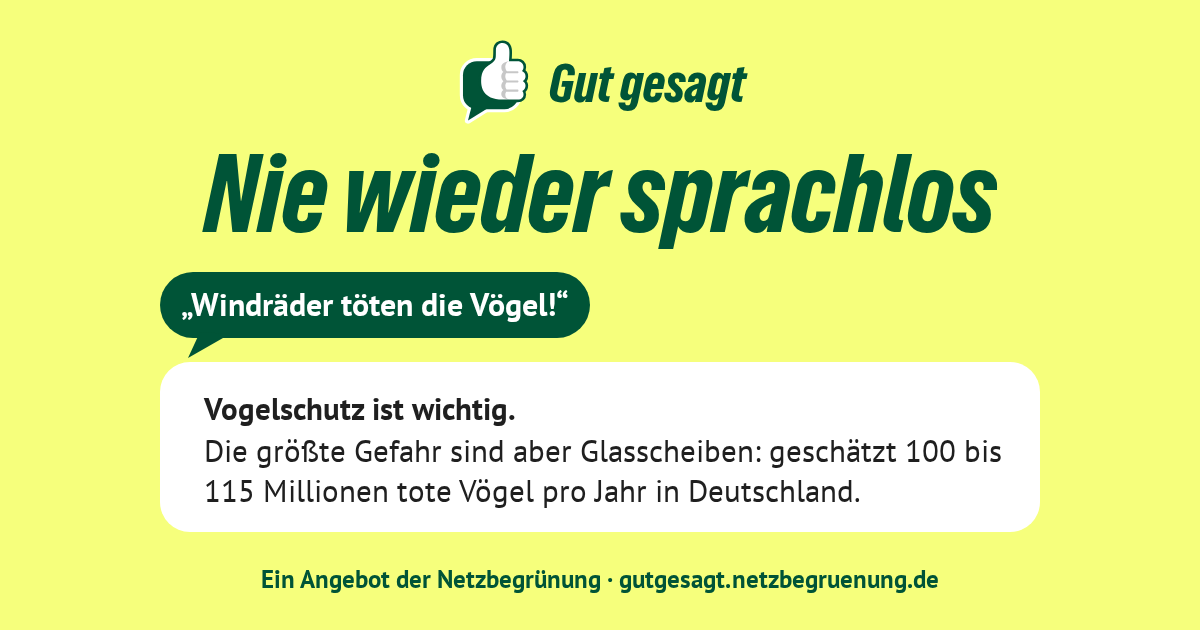
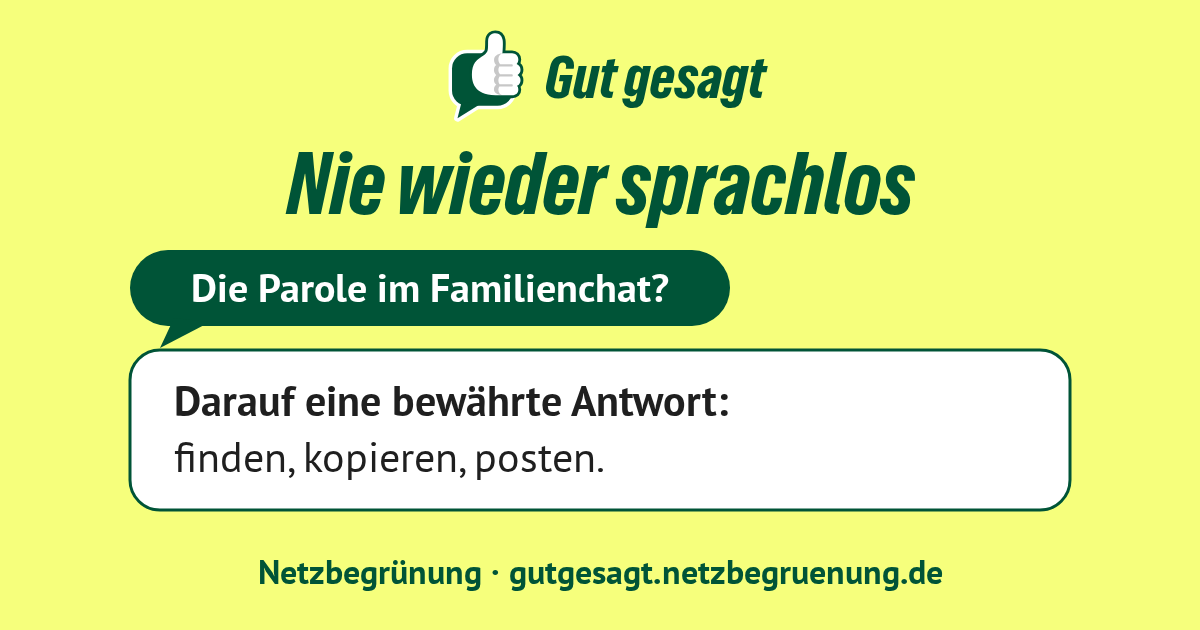
fix(frontend): neutral link preview that fits every shared page
The preview image also applies to /beitrag/<id> and /result, where nginx
only replaces title and description. Show the flow (slogan, then a proven
answer) instead of one specific statement so image and title never
contradict. Larger type for small previews, claim within the centre
square, alt text matches the image, test reuses the production prefix.

Changed region(s): [[0.0925, 0.2413, 0.8942, 0.8444], [0.2158, 0.8746, 0.8017, 0.9349], [0.37, 0.0302, 0.6475, 0.2111]]

diff --git a/mvp/frontend/gutgesagt-frontend/src/index.html b/mvp/frontend/gutgesagt-frontend/src/index.html
@@ -25,12 +25,13 @@
   <!--# endblock -->
   <!--# include virtual="$linkvorschau" stub="linkvorschau_allgemein" -->
   <!-- Vorschaubild 1200 x 630 (26.11.2026): Messenger zeigen es gross statt des kleinen Symbols;
-       Quelle und Inhalt in marke/linkvorschau-v1.svg. Breite und Hoehe stehen dabei, damit WhatsApp
+       Quelle und Inhalt in marke/linkvorschau-v1.svg. Es gilt auch fuer /beitrag und /result (steht
+       ausserhalb des SSI-Blocks) und zeigt deshalb keinen bestimmten Beitrag. Breite und Hoehe stehen dabei, damit WhatsApp
        das Bild beim ersten Abruf gross zeigt, ohne es erst zu laden. -->
   <meta property="og:image" content="https://gutgesagt.netzbegruenung.de/marke/linkvorschau-v1.png">
   <meta property="og:image:width" content="1200">
   <meta property="og:image:height" content="630">
-  <meta property="og:image:alt" content="Gut gesagt – Nie wieder sprachlos. Beispiel: Auf „Windräder töten die Vögel!“ antwortet eine bewährte Antwort mit Zahlen zu Glasscheiben.">
+  <meta property="og:image:alt" content="Gut gesagt – Nie wieder sprachlos. Die Parole im Familienchat? Darauf eine bewährte Antwort: finden, kopieren, posten. Netzbegrünung.">
   <meta name="twitter:card" content="summary_large_image">
   <base href="/">
   <!-- viewport-fit=cover: Die untere Leiste am Handy haelt mit env(safe-area-inset-bottom)

diff --git a/scripts/tests/test_vorschau_tags.py b/scripts/tests/test_vorschau_tags.py
@@ -10,6 +10,7 @@ import re
 WURZEL = pathlib.Path(__file__).resolve().parents[2]
 FRONTEND = WURZEL / "mvp/frontend/gutgesagt-frontend"
 INDEX = FRONTEND / "src/index.html"
+PRODUKTION = "https://gutgesagt.netzbegruenung.de/"
 
 META = re.compile(r'<meta\s+(?:property|name)="([^"]+)"\s+content="([^"]*)"\s*/?>')
 
@@ -31,7 +32,7 @@ def test_og_bild_im_grossformat():
     from PIL import Image
 
     meta = _meta()
-    bild = FRONTEND / "public" / meta["og:image"].split("netzbegruenung.de/", 1)[1]
+    bild = FRONTEND / "public" / meta["og:image"].removeprefix(PRODUKTION)
     with Image.open(bild) as im:
         assert im.size == (int(meta["og:image:width"]), int(meta["og:image:height"])) == (1200, 630)
     assert meta.get("og:image:alt")
@@ -51,9 +52,8 @@ def test_beschreibung_freigegeben_und_gleich():
 
 def test_og_bild_absolut_und_im_public_ordner():
     bild = _meta()["og:image"]
-    praefix = "https://gutgesagt.netzbegruenung.de/"
-    assert bild.startswith(praefix), "WhatsApp zeigt nur Bilder mit absoluter Adresse"
-    assert (FRONTEND / "public" / bild[len(praefix) :]).is_file()
+    assert bild.startswith(PRODUKTION), "WhatsApp zeigt nur Bilder mit absoluter Adresse"
+    assert (FRONTEND / "public" / bild.removeprefix(PRODUKTION)).is_file()
 
 
 # Vorschau je Beitrag und fuer die Ergebnisseite (#360): nginx ersetzt per SSI den Block
